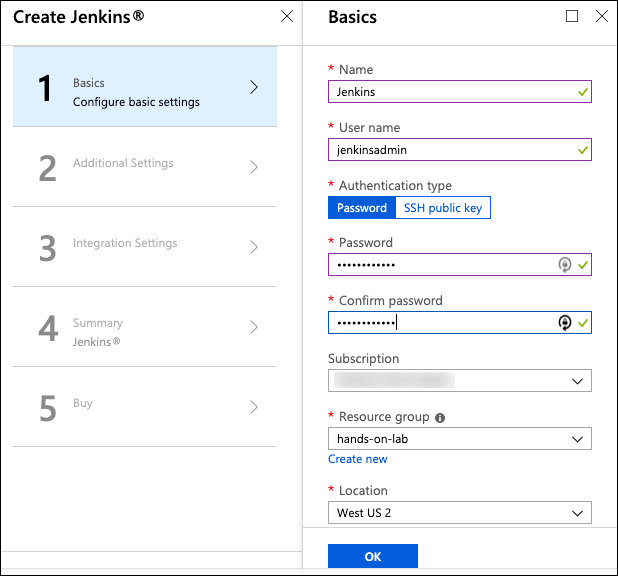
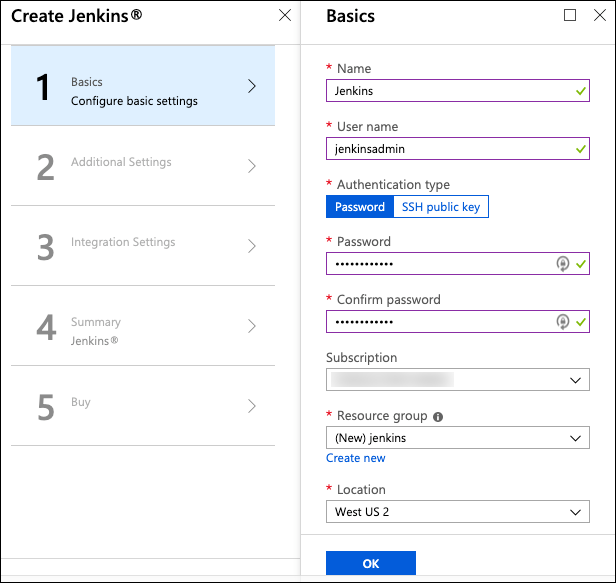
Updating before the lab file.

diff --git a/Hands-on lab/Before the HOL.md b/Hands-on lab/Before the HOL.md
@@ -83,7 +83,7 @@ In this task, you will provision a Linux virtual machine (VM) running Ubuntu Ser
 
 1. To open a custom deployment screen in the Azure portal select the Deploy to Azure button below:
 
-    <a href ="https://portal.azure.com/#create/Microsoft.Template/uri/https%3A%2F%2Fraw.githubusercontent.com%2Fkylebunting%2FMCW-OSS-PaaS-and-DevOps%2Fmaster%2FHands-on%20lab%2Flab-files%2FLabVM%2Fazure-deploy.json" target="_blank" title="Deploy to Azure">
+    <a href ="https://portal.azure.com/#create/Microsoft.Template/uri/https%3A%2F%2Fraw.githubusercontent.com%2FMicrosoft%2FMCW-OSS-PaaS-and-DevOps%2Fmaster%2FHands-on%20lab%2Flab-files%2FLabVM%2Fazure-deploy.json" target="_blank" title="Deploy to Azure">
     <img src="http://azuredeploy.net/deploybutton.png"/>
     </a>
 
@@ -117,7 +117,7 @@ In this task, you will provision an Azure Linux VM, which will serve as your Jen
     - **Authentication type:** Select **Password**
     - **Password:** Enter **Password.1!!**
     - **Subscription:** Select the subscription you are using for this hands-on lab.
-    - **Resource group:** Select the **hands-on-lab-SUFFIX** resource group from the list.
+    - **Resource group:** Select Create new, and enter "jenkins-SUFFIX" (Note: Jenkins will use a different resource group than the other resources in this lab).
     - **Location:** Select the location you are using for resources in this hands-on lab.
     - Select **OK** to proceed to the **Settings** blade.
 
@@ -125,25 +125,26 @@ In this task, you will provision an Azure Linux VM, which will serve as your Jen
 
 3. On the **Additional Settings** blade:
 
-    - Select **Configure subnets**, and then select **OK** on the **Subnets** blade to accept the defaults.
-    - Enter a unique **Domain name label,** such as "Jenkins-SUFFIX".
-    - Ensure the **Jenkins release type** is set to LTS.
+    - **Subnets**: Select **Configure subnets**, and then select **OK** on the **Subnets** blade to accept the defaults.
+    - **Domain name label**: Enter a unique value, such as **jenkins-SUFFIX**.
+    - **Jenkins release type**: Select **LTS**.
+    - **JDK Type**: Select **Zulu**.
 
 4. Select **OK** to proceed to the Integration Settings screen.
 
-    ![Additional Settings is selected on the Create Jenkins blade, SSD and Subnets are selected on the Additional Settings blade in the middle, and OK is selected on the Subnets blade at right.](media/b4-image8.png "Proceed to the summary screen")
+    ![Additional Settings is selected on the Create Jenkins blade, SSD and Subnets are selected on the Additional Settings blade in the middle, and OK is selected on the Subnets blade at right.](media/create-jenkins-additional-settings.png "Proceed to the summary screen")
 
 5. On the **Integration Settings** blade, select **OK**.
 
-    ![Integration Settings is selected on the Create Jenkins blade. On the Jenkins Integration Settings blade to the right, VM is selected, and OK is selected at the bottom.](media/b4-image9.png "Select OK on the Jenkins Integration Settings blade")
+    ![Integration Settings is selected on the Create Jenkins blade. On the Jenkins Integration Settings blade to the right, VM is selected, and OK is selected at the bottom.](media/create-jenkins-integration-settings.png "Select OK on the Jenkins Integration Settings blade")
 
-6. On the **Summary** blade, ensure validation passed, and select **OK**.
+6. On the **Summary** blade, ensure the `Validation passed` message is displayed, and then select **OK**.
 
-    ![Summary is selected on the Create Jenkins blade. Validation information is displayed on the Summary blade to the right, and OK is selected at the bottom.](media/b4-image10.png "Ensure that validation passed")
+    ![Summary is selected on the Create Jenkins blade. Validation information is displayed on the Summary blade to the right, and OK is selected at the bottom.](media/create-jenkins-summary.png "Ensure that validation passed")
 
 7. Select **Create** on the **Buy** screen to provision the Jenkins server.
 
-    ![Buy is selected on the Create Jenkins blade. Provisioning information is displayed on the Create blade to the right, and Create is selected at the bottom.](media/b4-image11.png "Provision the Jenkins server")
+    ![Buy is selected on the Create Jenkins blade. Provisioning information is displayed on the Create blade to the right, and Create is selected at the bottom.](media/create-jenkins-buy.png "Provision the Jenkins server")
 
 8. It can take 10+ minutes for the VM to provision. You can move on to the next task while you wait.
 
@@ -153,19 +154,19 @@ In this task, you will sign up for a free GitHub account, which will be used for
 
 > **NOTE**: If you already have a GitHub account, and wish to use that account, you can skip to the [next task](#task-5-fork-the-starter-app).
 
-1. Open a browser and navigate to <https://github.com>.
+1. Navigate to <https://github.com> in a web browser.
 
 2. In the form on the page, enter a **username**, your **email** address, and a **password**, then select **Sign up for GitHub**.
 
-    ![This is a screenshot of the sign-up form on github.com.](media/b4-image12.png "Sign up for GitHub")
+    ![This is a screenshot of the sign-up form on github.com.](media/github-signup.png "Sign up for GitHub")
 
 3. On the Welcome to GitHub screen, select **Unlimited public repositories free** under **Choose your personal plan**, and select **Continue**.
 
-    ![Unlimited public repositories free is selected under Choose your personal plan on the Welcome to GitHub screen.](media/b4-image13.png "Select Unlimited public repositories free")
+    ![Unlimited public repositories free is selected under Choose your personal plan on the Welcome to GitHub screen.](media/github-welcome.png "Select Unlimited public repositories free")
 
 4. On the next screen, you can select options to tailor your experience and select **Submit**, or select **skip this step**, next to **Submit,** to complete your registration.
 
-    ![Very experienced, Development, and I'm a professional are selected in Step 2 on the Welcome to GitHub screen.](media/b4-image14.png "Select options in Step 2")
+    ![Very experienced, Development, and I'm a professional are selected in Step 2 on the Welcome to GitHub screen.](media/github-experience.png "Select options in Step 2")
 
 ### Task 5: Fork the starter app
 
@@ -177,7 +178,7 @@ In this task, you will fork the [OSS PaaS and DevOps MCW GitHub repository](http
 
 2. At the top right of the projects GitHub page, select **Fork**.
 
-    ![Fork is highlighted at the top right of the projects GitHub page.](media/b4-image15.png "Select Fork")
+    ![Fork is highlighted at the top right of the projects GitHub page.](media/github-fork.png "Select Fork")
 
 3. If you have more than one GitHub account, select the account you are using for this hands-on lab.
 
@@ -185,6 +186,6 @@ In this task, you will fork the [OSS PaaS and DevOps MCW GitHub repository](http
 
 5. Once completed the project page will open.
 
-    ![The Code tab is highlighted on this screenshot of the project page. At this time, we are unable to capture all of the information in the window. Future versions of this course should address this.](media/b4-image16.png "Screenshot of the project page")
+    ![The Code tab is highlighted on this screenshot of the project page. At this time, we are unable to capture all of the information in the window. Future versions of this course should address this.](media/github-repo.png "Screenshot of the project page")
 
 You should follow all steps provided *before* attending the Hands-on lab.

diff --git a/Hands-on lab/lab-files/README.md b/Hands-on lab/lab-files/README.md
@@ -6,7 +6,7 @@ This repository contains resources for use with the OSS PaaS and DevOps workshop
 
 To get started, click the Deploy to Azure link below. This will provision a fully configured Linux Lab VM, used as a development machine for the OSS PaaS and DevOps workshop. This should be completed before your workshop.
 
-[![Deploy to Azure](http://azuredeploy.net/deploybutton.png)](https://portal.azure.com/#create/Microsoft.Template/uri/https%3A%2F%2Fraw.githubusercontent.com%2Fkylebunting%2FMCW-OSS-PaaS-and-DevOps%2Fmaster%2FHands-on%20Lab%2Flab-files%2FLabVM%2Fazure-deploy.json)
+[![Deploy to Azure](http://azuredeploy.net/deploybutton.png)](https://portal.azure.com/#create/Microsoft.Template/uri/https%3A%2F%2Fraw.githubusercontent.com%2FMicrosoft%2FMCW-OSS-PaaS-and-DevOps%2Fmaster%2FHands-on%20Lab%2Flab-files%2FLabVM%2Fazure-deploy.json)
 
 VM details:
 

diff --git a/Hands-on lab/Appendix-A.md b/Hands-on lab/Appendix-A.md
@@ -49,7 +49,7 @@ In this task, you will provision a Linux virtual machine (VM) running Ubuntu Ser
     **INBOUND PORT RULES**:
 
      - **Public inbound ports**: Select **Allow selected ports**.
-     - **Select inbound ports**: Check the box for **RDP (3389)**.
+     - **Select inbound ports**: Expand the list and check the box for **RDP (3389)**.
 
     ![Basics is selected on the Create virtual machine blade, and the information above is entered on the Basics blade at right.](media/create-ubuntu-server-basics.png "Create a virtual machine")
 
